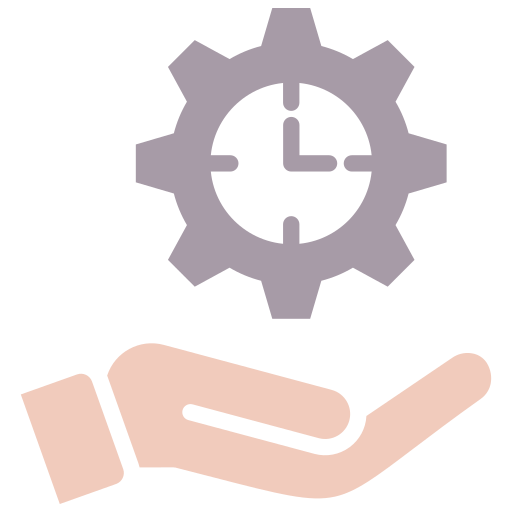
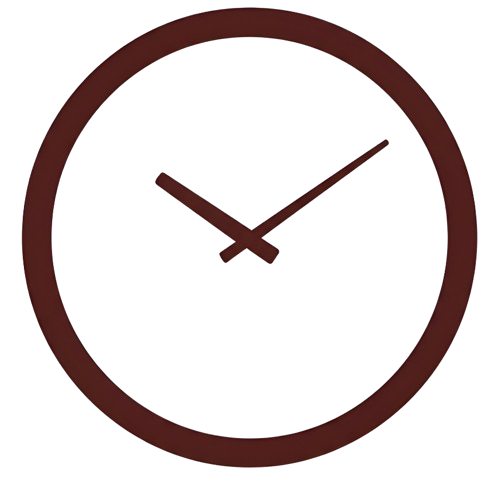
Organizacion de colores

diff --git a/src/assets/styles/about.css b/src/assets/styles/about.css
@@ -465,9 +465,14 @@ body {
 
 /* card */
 .about-intro__card {
-  background: var(--color-white);
+  /* CAMBIO: Fondo borgoña/café translúcido muy suave */
+  background: rgba(92, 33, 33, 0.03); 
+  
+  /* Si prefieres un efecto "glass" con desenfoque del fondo, mantén esta línea opcional: */
+  backdrop-blur: 8px; 
+
   border-radius: 14px;
-  border: 1px solid var(--color-border-light);
+  border: 1px solid rgba(92, 33, 33, 0.08); /* Borde sutil a juego */
 
   padding: 25px 20px;
 
@@ -485,7 +490,9 @@ body {
 
 .about-intro__card:hover {
   transform: translateY(-5px);
-  border-color: rgba(92, 33, 33, 0.12); /* Brillo sutil borgoña al pasar el cursor */
+  /* Un poco más de color en el fondo y borde al pasar el cursor */
+  background: rgba(92, 33, 33, 0.06); 
+  border-color: rgba(92, 33, 33, 0.2); 
   box-shadow: var(--shadow-card-hover);
 }
 
@@ -690,13 +697,16 @@ body {
   overflow: hidden; /* importante */
 }
 
-/* TELITA BLANCA */
+/* TELITA COHESIVA (YA NO TAN BLANCA RIGIDA) */
 .values-section::before {
   content: "";
   position: absolute;
   inset: 0;
 
-  background: rgba(255, 255, 255, 0.65); /* ajusta aquí */
+  /* CAMBIO: Se usa el fondo clínico (#F8F9FA) a un 92% de opacidad 
+     para que la imagen de fondo se intuya de manera muy sutil 
+     y la sección gane un color estático, limpio y corporativo */
+  background: rgba(248, 249, 250, 0.92); 
 
   z-index: 1;
 }
@@ -741,19 +751,16 @@ body {
   gap: 25px;
 }
 
-/* CARD: Adaptada de azul encendido a tu degradado Borgoña corporativo agradable */
+/* CARD: Modificada a color sólido estático extraído de la imagen (#5C2121) */
 .value-card {
   padding: 30px 22px;
   border-radius: var(--radius-md);
 
-  border: 1px solid rgba(172, 92, 92, 0.18);
+  /* Borde sutil a juego con el fondo */
+  border: 1px solid rgba(255, 255, 255, 0.08);
 
-  background: linear-gradient(
-    135deg,
-    #7d3232 0%,
-    #944545 45%,
-    #ac5c5c 100%
-  );
+  /* CAMBIO: Color estático y uniforme de la imagen */
+  background: #5C2121; 
 
   color: var(--color-white);
 
@@ -766,16 +773,11 @@ body {
 .value-card:hover {
   transform: translateY(-6px);
 
-  background: linear-gradient(
-    135deg,
-    #8c4040 0%,
-    #a14f4f 50%,
-    #b96b6b 100%
-  );
+  /* CAMBIO: En hover mantiene la base estática pero con una leve iluminación sutil */
+  background: #6e2727; 
 
   box-shadow: 0 18px 34px rgba(92, 33, 33, 0.18);
 }
-
 /* ICONO (CUADRO BLANCO 🔥) */
 .value-icon {
   width: 60px;

diff --git a/src/components/home/LocationsPreview.jsx b/src/components/home/LocationsPreview.jsx
@@ -18,29 +18,19 @@ function LocationsPreview() {
       image: losRosalesImg,
       title: "Cedicaf Sede Pereira",
       address: "Cra. 15 No 13-28 Barrio Los Alpes",
-      schedule1: "L-V: 7:00 a.m. – 6:00 p.m.",
-      schedule2: "S: 7:00 a.m. – 12:00 p.m.",
+      schedule1: "L-V: 6:00 a.m. – 10:00 p.m.",
+      schedule2: "S: 6:00 a.m. – 10:00 p.m.",
       featured: false,
     },
     {
       id: 2,
       city: "Armenia",
       image: comfamiliarImg,
-      title: "Cedicaf Sede Armenia Resonancia",
+      title: "Cedicaf Sede Armenia",
       address: "Cl 2 N 12-32 Alcázar",
-      schedule1: "L-V: 8:00 a.m. – 6:00 p.m.",
-      schedule2: "S: 8:00 a.m. – 11:00 p.m.",
+      schedule1: "L-V: 24/7.",
+      schedule2: "S: 6:00 a.m. – 12:00 p.m.",
       featured: false,
-    },
-    {
-      id: 3,
-      city: "Armenia",
-      image: sanRafaelImg,
-      title: "Cedicaf Sede Armenia Tomografía",
-      address: "Carrera 19 No. 12-32 Primer piso",
-      schedule1: "Ambulatorios (L-S): 7:00 a.m. – 6:00 p.m.",
-      schedule2: "S: 8:00 a.m. – 11:00 p.m.",
-      featured: true,
     },
     {
       id: 4,
@@ -48,8 +38,8 @@ function LocationsPreview() {
       image: centroMedicoImg,
       title: "Cedicaf Sede Ibagué Resonancia",
       address: "Calle 18 No 7-102 Barrio Interlaken",
-      schedule1: "L-V: 6:00 a.m. – 4:00 p.m.",
-      schedule2: "S: 7:00 a.m. – 12:00 p.m.",
+      schedule1: "L-V: 8:00 a.m. – 7:00 p.m.",
+      schedule2: "S: 7:00 a.m. – 1:00 p.m.",
       featured: false,
     },
     {
@@ -58,8 +48,8 @@ function LocationsPreview() {
       image: pinaresImg,
       title: "Cedicaf Sede Ibagué Medicina Nuclear",
       address: "Calle 18 N 7-88 Barrio Interlaken",
-      schedule1: "L-V: 7:00 a.m. – 6:00 p.m.",
-      schedule2: "S: 7:00 a.m. – 12:00 p.m.",
+      schedule1: "L-V: 8:00 a.m. – 7:00 p.m.",
+      schedule2: "S: 7:00 a.m. – 1:00 p.m.",
       featured: false,
     },
 
@@ -69,8 +59,8 @@ function LocationsPreview() {
       image: losRosalesImg,
       title: "Cedicaf Sede Tuluá",
       address: "Carrera 34 No 27-33",
-      schedule1: "L-V: 7:00 a.m. – 5:00 p.m.",
-      schedule2: "S: 7:00 a.m. – 12:00 p.m.",
+      schedule1: "L-V: 6:00 a.m. – 10:00 p.m.",
+      schedule2: "S: 6:00 a.m. – 10:00 p.m.",
       featured: false,
     },
   ];

diff --git a/src/components/about/AboutIntro.jsx b/src/components/about/AboutIntro.jsx
@@ -1,7 +1,7 @@
-import experienciaIcon from "../../assets/Iconos/email.png";
-import pacientesIcon from "../../assets/Iconos/email.png";
-import sedesIcon from "../../assets/Iconos/email.png";
-import empresasIcon from "../../assets/Iconos/email.png";
+import experienciaIcon from "../../assets/Iconos/Tiempo.png";
+import pacientesIcon from "../../assets/Iconos/ResonanciaPaciente.png";
+import sedesIcon from "../../assets/Iconos/Ubicacion.png";
+import empresasIcon from "../../assets/Iconos/company.png";
 
 function AboutIntro() {
   return (
@@ -31,7 +31,7 @@ function AboutIntro() {
 
         <div className="about-intro__card">
           <img src={sedesIcon} />
-          <h3>+6</h3>
+          <h3>+5</h3>
           <span>Sedes en Colombia</span>
         </div>
 

diff --git a/src/components/about/AboutHero.jsx b/src/components/about/AboutHero.jsx
@@ -1,8 +1,8 @@
 import historiaBg from "../../assets/images/Fondo.jpg";
 
-import sedesIcon from "../../assets/Iconos/email.png";
-import isoIcon from "../../assets/Iconos/email.png";
-import pacientesIcon from "../../assets/Iconos/email.png";
+import sedesIcon from "../../assets/Iconos/ubicacion.png";
+import isoIcon from "../../assets/Iconos/icontec.png";
+import pacientesIcon from "../../assets/Iconos/ResonanciaPaciente.png";
 
 function AboutHero() {
   return (
@@ -37,7 +37,7 @@ function AboutHero() {
             <img src={sedesIcon} className="about-hero__statIcon" />
 
             <div className="about-hero__statText">
-              <strong>+6 sedes</strong>
+              <strong>+5 sedes</strong>
               <span>en Colombia</span>
             </div>
           </article>

diff --git a/src/components/about/ValuesSection.jsx b/src/components/about/ValuesSection.jsx
@@ -1,9 +1,9 @@
 import bgValores from "../../assets/images/Fondo.jpg";
 
-import pasionIcon from "../../assets/Iconos/email.png";
-import transparenciaIcon from "../../assets/Iconos/email.png";
-import empatiaIcon from "../../assets/Iconos/email.png";
-import respetoIcon from "../../assets/Iconos/email.png";
+import pasionIcon from "../../assets/Iconos/pasion.png";
+import transparenciaIcon from "../../assets/Iconos/transparencia.png";
+import empatiaIcon from "../../assets/Iconos/empatia.png";
+import respetoIcon from "../../assets/Iconos/respeto.png";
 
 function ValuesSection() {
   return (

diff --git a/src/components/home/Hero.jsx b/src/components/home/Hero.jsx
@@ -5,8 +5,8 @@ import especialistasHero from "../../assets/images/Fondo.jpg";
 import clinicaHero from "../../assets/images/Fondo.jpg";
 import resultadosIcon from "../../assets/Iconos/Resultados.png";
 import agendarIcon from "../../assets/Iconos/Resonancia.png";
-import experienciaIcon from "../../assets/Iconos/Tiempo.png";
-import sedesIcon from "../../assets/Iconos/Ubicacion.png";
+import experienciaIcon from "../../assets/Iconos/Reloj.png";
+import sedesIcon from "../../assets/Iconos/Sede.png";
 import pacientesIcon from "../../assets/Iconos/Resonancia.png";
 
 const slides = [
@@ -131,7 +131,7 @@ function Hero() {
                 className="hero__statIcon hero__statIcon--sedes"
               />
               <div className="hero__statText">
-                <div className="hero__statNumber">6+</div>
+                <div className="hero__statNumber">5+</div>
                 <div className="hero__statLabel">Sedes</div>
               </div>
             </div>

diff --git a/src/assets/styles/careers.css b/src/assets/styles/careers.css
@@ -230,8 +230,8 @@ body {
   text-decoration: none;
   
   /* Estado estático: Gris oscuro profesional */
-  background: #575b63; 
-  color: var(--color-white);
+  background: #ececec;; 
+  color: var(--color-brand-main);
   border: 1px solid transparent;
   box-shadow: var(--shadow-card);
   

diff --git a/src/components/about/MissionVision.jsx b/src/components/about/MissionVision.jsx
@@ -1,5 +1,5 @@
-import misionIcon from "../../assets/Iconos/email.png";
-import visionIcon from "../../assets/Iconos/email.png";
+import misionIcon from "../../assets/Iconos/mision.png";
+import visionIcon from "../../assets/Iconos/vision.png";
 
 function MissionVision() {
   return (

diff --git a/src/components/company/PrinciplesSection.jsx b/src/components/company/PrinciplesSection.jsx
@@ -1,5 +1,5 @@
-import eficienciaIcon from "../../assets/Iconos/email.png";
-import servicioIcon from "../../assets/Iconos/email.png";
+import eficienciaIcon from "../../assets/Iconos/eficiencia.png";
+import servicioIcon from "../../assets/Iconos/servicio.png";
 import igualdadIcon from "../../assets/Iconos/email.png";
 import compromisoIcon from "../../assets/Iconos/email.png";
 import equipoIcon from "../../assets/Iconos/email.png";

diff --git a/src/components/company/TechnologySection.jsx b/src/components/company/TechnologySection.jsx
@@ -18,9 +18,7 @@ function TechnologySection() {
           </h2>
 
           <p className="technology__description">
-            En Radiólogos Asociados contamos con la infraestructura tecnológica 
-            más avanzada de la región, garantizando diagnósticos precisos y 
-            confiables para nuestros pacientes.
+            ??
           </p>
         </div>
 

diff --git a/src/components/careers/ApplySection.jsx b/src/components/careers/ApplySection.jsx
@@ -67,7 +67,7 @@ function ApplySection() {
             </label>
           </div>
 
-          <button type="submit" className="btn-base btn-primary-blue">
+          <button type="submit" className="btn-base btn-primary-brand">
             Enviar postulación
           </button>
 

diff --git a/src/components/careers/CareersHero.jsx b/src/components/careers/CareersHero.jsx
@@ -20,7 +20,7 @@ function CareersHero() {
           </h1>
 
           <p className="careers-hero__description">
-            En Radiólogos Asociados creemos en el talento, la pasión y el
+            En Cedicaf creemos en el talento, la pasión y el
             compromiso. Sé parte de una institución líder en el sector salud,
             donde podrás crecer profesionalmente y aportar al bienestar de miles
             de personas.